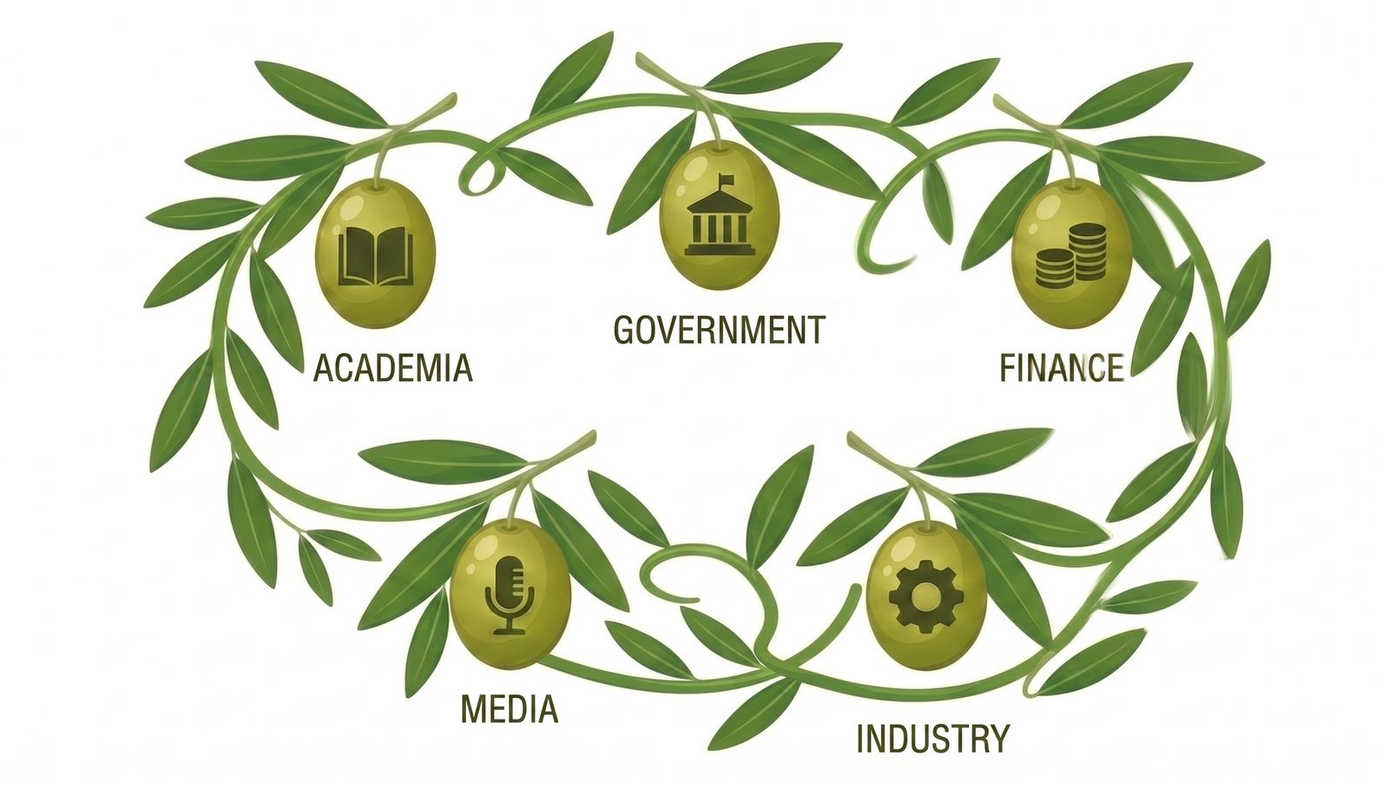
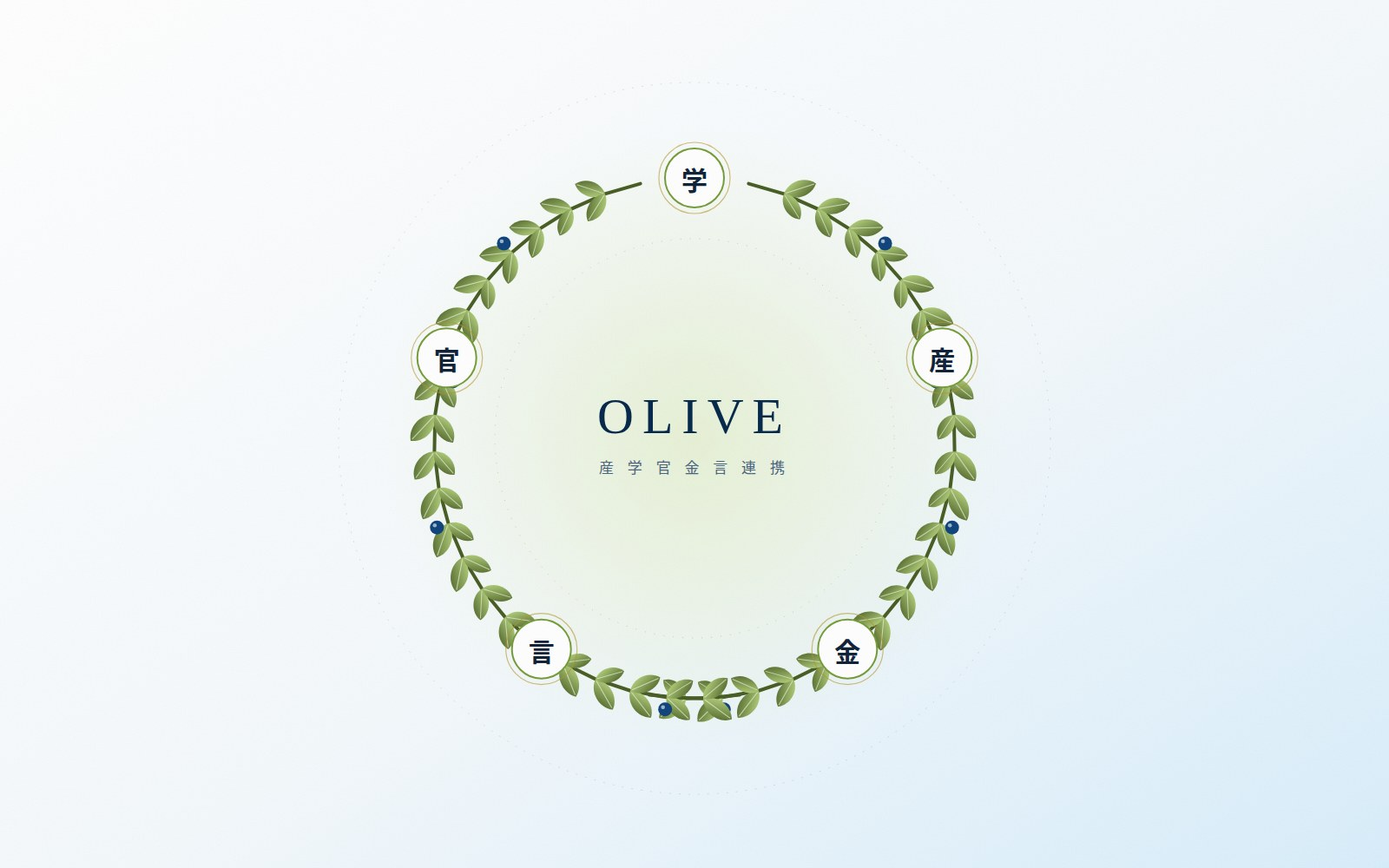
Add files via upload

diff --git a/index.html b/index.html
@@ -4,7 +4,7 @@
 <meta charset="UTF-8">
 <meta name="viewport" content="width=device-width, initial-scale=1">
 <title>ホーム｜OLIVE おかやま地域未来共創プラットフォーム</title>
-<meta name="description" content="岡山の高校・高専・大学・企業・行政・金融・メディアが手を組み、人材育成の構想を実行に移す「おかやま地域未来共創プラットフォーム（OLIVE）」の公式サイト。">
+<meta name="description" content="岡山の高校・大学・企業・行政・金融・メディアが手を組み、人材育成の構想を実行に移す「おかやま地域未来共創プラットフォーム（OLIVE）」の公式サイト。">
 
 <link rel="preconnect" href="https://fonts.googleapis.com">
 <link rel="preconnect" href="https://fonts.gstatic.com" crossorigin>
@@ -77,10 +77,10 @@
     <div class="leaf-fall" aria-hidden="true"><i></i><i></i><i></i><i></i><i></i></div>
     <div class="wrap hero-grid">
       <div class="page-enter">
-        <p class="eyebrow">Okayama Local Innovation and Visionary Ecosystem</p>
+        <p class="eyebrow">Okayama Leading Initiative for Value creation and Education</p>
         <h1 class="hero-title"><span class="ln"><span>未来を待つのではなく、</span></span><span class="ln"><span><em>私たちが、創る。</em></span></span></h1>
-        <p class="hero-lede">岡山の高校・高専・大学・企業・行政・金融・メディアが、ひとつのテーブルにつく。そして決めたことを、実際に動かす。OLIVEは、岡山の人材育成を「話し合い」で終わらせないための、産学官金言のプラットフォームです。</p>
-        <p class="hero-formal">文部科学省「地域構想推進プラットフォーム」構築等推進事業　採択</p>
+        <p class="hero-lede">岡山の高校・大学・企業・行政・金融・メディアが、ひとつのテーブルにつく。そして決めたことを、実際に動かす。OLIVEは、岡山の人材育成を「話し合い」で終わらせないための、産学官金言のプラットフォームです。</p>
+        <p class="hero-formal">文部科学省「地域構想推進プラットフォーム」構築等推進事業　採択取組</p>
         <div class="hero-cta">
           <a class="btn btn-primary" href="stakeholders.html">あなたにとってのOLIVE</a>
           <a class="btn btn-ghost" href="about.html">OLIVEとは</a>
@@ -88,26 +88,60 @@
       </div>
       <div class="hero-tilt" id="heroTilt">
         <div class="hero-art float-slow" aria-hidden="true"><svg viewBox="0 0 420 420" width="100%" height="100%">
-  <circle cx="210" cy="210" r="190" fill="none" stroke="var(--line-strong)" stroke-width="1"/>
-  <circle cx="210" cy="210" r="140" fill="none" stroke="var(--line)" stroke-width="1"/>
-  <g stroke="var(--olive-deep)" stroke-width="2" fill="none" stroke-linecap="round">
-    <path d="M210 340C210 340 130 300 130 210C130 140 165 100 210 70C255 100 290 140 290 210C290 300 210 340 210 340Z"/>
-    <path d="M210 340V90"/>
+  <defs>
+    <radialGradient id="hgGlow" cx="50%" cy="50%" r="50%">
+      <stop offset="0%" stop-color="var(--olive-pale)" stop-opacity=".95"/>
+      <stop offset="70%" stop-color="var(--olive-pale)" stop-opacity=".25"/>
+      <stop offset="100%" stop-color="var(--olive-pale)" stop-opacity="0"/>
+    </radialGradient>
+    <linearGradient id="hgLeaf" x1="0" y1="0" x2="1" y2="1">
+      <stop offset="0%" stop-color="var(--olive-light)"/>
+      <stop offset="100%" stop-color="var(--olive-deep)"/>
+    </linearGradient>
+    <g id="hl">
+      <path d="M0 0 C 8 -11 26 -11 34 0 C 26 11 8 11 0 0 Z" fill="url(#hgLeaf)"/>
+      <path d="M2 0 L32 0" stroke="var(--olive-pale)" stroke-width=".9" opacity=".8"/>
+    </g>
+  </defs>
+  <circle cx="210" cy="210" r="150" fill="url(#hgGlow)"/>
+  <g class="orbit-spin"><circle cx="210" cy="210" r="198" fill="none" stroke="var(--line-strong)" stroke-width="1" stroke-dasharray="1.5 7"/></g>
+  <g class="orbit-spin-r"><circle cx="210" cy="210" r="176" fill="none" stroke="var(--line)" stroke-width="1"/>
+    <circle cx="210" cy="210" r="138" fill="none" stroke="var(--gold)" stroke-width=".8" stroke-dasharray="1 9" opacity=".65"/></g>
+  <g stroke="var(--line)" stroke-width="1" stroke-dasharray="2 5" opacity=".9">
+    <line x1="210" y1="210" x2="210.0" y2="34.0"/>
+    <line x1="210" y1="210" x2="377.4" y2="155.6"/>
+    <line x1="210" y1="210" x2="313.5" y2="352.4"/>
+    <line x1="210" y1="210" x2="106.5" y2="352.4"/>
+    <line x1="210" y1="210" x2="42.6" y2="155.6"/>
+    </g>
+  <g class="hub-pulse"><circle cx="210" cy="210" r="70" fill="none" stroke="var(--olive)" stroke-width="1.2"/></g>
+  <g>
+    <path d="M210 336 C 214 292 206 250 212 205 C 216 170 208 135 212 96" fill="none" stroke="var(--olive-deep)" stroke-width="2.4" stroke-linecap="round"/>
+    <g class="float-fast">
+      <use href="#hl" transform="translate(208 302) rotate(-148) scale(1.25)"/>
+      <use href="#hl" transform="translate(214 280) rotate(-32) scale(1.3)"/>
+      <use href="#hl" transform="translate(206 254) rotate(-148) scale(1.35)"/>
+      <use href="#hl" transform="translate(216 229) rotate(-32) scale(1.35)"/>
+      <use href="#hl" transform="translate(207 203) rotate(-148) scale(1.3)"/>
+      <use href="#hl" transform="translate(216 178) rotate(-32) scale(1.28)"/>
+      <use href="#hl" transform="translate(208 153) rotate(-148) scale(1.18)"/>
+      <use href="#hl" transform="translate(215 128) rotate(-32) scale(1.1)"/>
+      <use href="#hl" transform="translate(211 103) rotate(-90) scale(0.85)"/>
+      </g>
+    <g>
+      <circle cx="224" cy="263" r="6.2" fill="var(--navy)"/><circle cx="222.0" cy="261.0" r="1.7" fill="#fff" opacity=".55"/>
+      <circle cx="197" cy="214" r="6.6" fill="var(--navy)"/><circle cx="194.9" cy="211.9" r="1.8" fill="#fff" opacity=".55"/>
+      <circle cx="224" cy="166" r="5.6" fill="var(--navy)"/><circle cx="222.2" cy="164.2" r="1.6" fill="#fff" opacity=".55"/>
+      </g>
   </g>
-  <g stroke="var(--olive)" stroke-width="1.6" fill="none" stroke-linecap="round">
-    <path d="M210 280C210 280 165 270 155 225"/><path d="M210 250C210 250 250 242 258 205"/>
-    <path d="M210 220C210 220 172 212 164 175"/><path d="M210 190C210 190 245 183 251 152"/>
-    <path d="M210 160C210 160 178 152 172 125"/>
-  </g>
-  <g fill="var(--olive-deep)" class="float-fast">
-    <ellipse cx="155" cy="225" rx="7" ry="10" transform="rotate(-30 155 225)"/>
-    <ellipse cx="258" cy="205" rx="7" ry="10" transform="rotate(25 258 205)"/>
-    <ellipse cx="164" cy="175" rx="6" ry="9" transform="rotate(-25 164 175)"/>
-    <ellipse cx="251" cy="152" rx="6" ry="9" transform="rotate(30 251 152)"/>
-    <ellipse cx="172" cy="125" rx="5" ry="8" transform="rotate(-20 172 125)"/>
-  </g>
-  <circle cx="210" cy="70" r="6" fill="var(--navy)"/>
-  <text x="210" y="400" text-anchor="middle" font-family="var(--serif)" font-size="13" fill="var(--ink-soft)" letter-spacing="2">Ō L I V E — 根を張り、実をむすぶ。</text>
+  <g>
+    <g class="hub-node"><circle cx="210.0" cy="34.0" r="19" fill="var(--card)" stroke="var(--olive)" stroke-width="1.3"/><circle cx="210.0" cy="34.0" r="23.5" fill="none" stroke="var(--gold)" stroke-width=".8" opacity=".55"/><text x="210.0" y="34.5" text-anchor="middle" dominant-baseline="central" font-family="var(--serif)" font-size="15" font-weight="700" fill="var(--ink)">学</text></g>
+    <g class="hub-node"><circle cx="377.4" cy="155.6" r="19" fill="var(--card)" stroke="var(--olive)" stroke-width="1.3"/><circle cx="377.4" cy="155.6" r="23.5" fill="none" stroke="var(--gold)" stroke-width=".8" opacity=".55"/><text x="377.4" y="156.1" text-anchor="middle" dominant-baseline="central" font-family="var(--serif)" font-size="15" font-weight="700" fill="var(--ink)">産</text></g>
+    <g class="hub-node"><circle cx="313.5" cy="352.4" r="19" fill="var(--card)" stroke="var(--olive)" stroke-width="1.3"/><circle cx="313.5" cy="352.4" r="23.5" fill="none" stroke="var(--gold)" stroke-width=".8" opacity=".55"/><text x="313.5" y="352.9" text-anchor="middle" dominant-baseline="central" font-family="var(--serif)" font-size="15" font-weight="700" fill="var(--ink)">金</text></g>
+    <g class="hub-node"><circle cx="106.5" cy="352.4" r="19" fill="var(--card)" stroke="var(--olive)" stroke-width="1.3"/><circle cx="106.5" cy="352.4" r="23.5" fill="none" stroke="var(--gold)" stroke-width=".8" opacity=".55"/><text x="106.5" y="352.9" text-anchor="middle" dominant-baseline="central" font-family="var(--serif)" font-size="15" font-weight="700" fill="var(--ink)">言</text></g>
+    <g class="hub-node"><circle cx="42.6" cy="155.6" r="19" fill="var(--card)" stroke="var(--olive)" stroke-width="1.3"/><circle cx="42.6" cy="155.6" r="23.5" fill="none" stroke="var(--gold)" stroke-width=".8" opacity=".55"/><text x="42.6" y="156.1" text-anchor="middle" dominant-baseline="central" font-family="var(--serif)" font-size="15" font-weight="700" fill="var(--ink)">官</text></g>
+    </g>
+  <text x="210" y="404" text-anchor="middle" font-family="var(--serif)" font-size="13" fill="var(--ink-soft)" letter-spacing="2">Ō L I V E — 根を張り、実をむすぶ。</text>
 </svg></div>
       </div>
     </div>

diff --git a/style.css b/style.css
@@ -999,3 +999,126 @@ html:not(.no-js) .page-head-band .ph-inner{
   }
   html .reveal{ filter:none !important; }
 }
+
+
+/* ============================================================
+   REFINEMENT v3 ― 洗練（配色・書体・構図・写真の質感）
+   ============================================================ */
+
+/* ---- R1. 配色：資料のトーンに寄せた深いネイビーと、金の差し色 ---- */
+:root{
+  --navy:#12467e; --navy-soft:#3f7fb8;
+  --gold:#b8952f; --gold-soft:#dcc785; --gold-pale:#f3ecd4;
+  --olive:#789c3a; --olive-deep:#4a5f27;
+}
+@media (prefers-color-scheme: dark){ :root:not([data-theme="light"]){
+  --gold:#d9bd62; --gold-soft:#b89b45; --gold-pale:#2a2617;
+} }
+:root[data-theme="dark"]{ --gold:#d9bd62; --gold-soft:#b89b45; --gold-pale:#2a2617; }
+
+/* ---- R2. 書体：大きく、軽く、余白をもって ---- */
+h1,h2{ font-weight:600; letter-spacing:.01em; }
+.hero h1{ font-size:clamp(2.2rem,4.4vw,3.3rem); line-height:1.3; margin-top:22px; }
+.page-head-band h1{ font-size:clamp(1.9rem,3.8vw,2.8rem); line-height:1.32; margin-top:16px; }
+.eco-grid{ grid-template-columns:repeat(auto-fit, minmax(188px,1fr)); }
+.section-head h2{ font-size:clamp(1.65rem,3.25vw,2.35rem); line-height:1.38; margin-top:14px; }
+.quote-band h2{ font-weight:600; font-size:clamp(1.9rem,4.2vw,3.15rem); line-height:1.32; }
+.hero-lede, .ph-lede{ font-size:1.06rem; line-height:2; }
+.section-head p{ font-size:1rem; line-height:2; }
+.section-head{ margin-bottom:clamp(34px,4.8vw,56px); }
+section{ padding:clamp(64px,8.5vw,112px) 0; }
+
+/* 小見出しの「葉」は金に。文字は少し広めのトラッキングで */
+.eyebrow{ color:var(--olive-deep); letter-spacing:.24em; font-size:.72rem; }
+.eyebrow::before{ background:var(--gold); width:11px; height:11px; }
+.quote-band .eyebrow{ color:var(--gold-soft); }
+.quote-band .eyebrow::before{ background:var(--gold-soft); }
+.contact-panel .eyebrow, .contact-panel .eyebrow::before{ color:var(--gold-soft); background:var(--gold-soft); }
+.contact-panel .eyebrow{ background:none; }
+
+/* ---- R3. ヘッダー：静かな存在感 ---- */
+.nav-row{ padding-top:18px; padding-bottom:18px; }
+nav.links{ gap:26px; font-size:.86rem; }
+nav.links a::after{ background:var(--gold); box-shadow:none; }
+nav.links a:hover, nav.links a.active{ color:var(--ink); }
+.brand-text{ letter-spacing:.06em; }
+.brand:hover .brand-text{ background-image:linear-gradient(var(--gold), var(--gold)); }
+
+/* ---- R4. ヒーロー：画面いっぱいの没入 ---- */
+.hero{
+  display:flex; flex-direction:column; justify-content:center;
+  min-height:clamp(600px, 88vh, 940px);
+  padding-top:clamp(40px,6vw,72px); padding-bottom:clamp(80px,9vw,110px);
+}
+.hero-glow{ background:radial-gradient(640px circle at var(--mx,60%) var(--my,20%), color-mix(in srgb, var(--olive) 22%, transparent), transparent 62%); }
+.hero-formal{ border-left-color:var(--gold); color:var(--ink-soft); }
+.hero-cta{ margin-top:34px; gap:14px; }
+.hero-art{ max-width:560px; }
+.scroll-cue{ color:var(--ink-soft); letter-spacing:.3em; }
+.scroll-cue i{ background:linear-gradient(var(--gold), transparent); }
+.scroll-cue i::after{ background:var(--gold); }
+
+/* ヒーローの新イラスト：軌道リングの回転と節点の呼吸 */
+.orbit-spin{ transform-box:fill-box; transform-origin:center; animation:orbitSpin 110s linear infinite; }
+.orbit-spin-r{ transform-box:fill-box; transform-origin:center; animation:orbitSpin 160s linear infinite reverse; }
+@keyframes orbitSpin{ to{ transform:rotate(360deg); } }
+.hub-node{ transform-box:fill-box; transform-origin:center; animation:nodeBreath 6.5s ease-in-out infinite; }
+.hub-node:nth-of-type(2){ animation-delay:-1.3s; } .hub-node:nth-of-type(3){ animation-delay:-2.6s; }
+.hub-node:nth-of-type(4){ animation-delay:-3.9s; } .hub-node:nth-of-type(5){ animation-delay:-5.2s; }
+@keyframes nodeBreath{ 0%,100%{ transform:scale(1); } 50%{ transform:scale(1.07); } }
+.hub-pulse{ transform-box:fill-box; transform-origin:center; animation:hubPulse 4.8s ease-out infinite; }
+@keyframes hubPulse{ 0%{ transform:scale(.55); opacity:.55; } 100%{ transform:scale(1.9); opacity:0; } }
+@media (prefers-reduced-motion: reduce){ .orbit-spin, .orbit-spin-r, .hub-node, .hub-pulse{ animation:none; } .hub-pulse{ opacity:0; } }
+
+/* ---- R5. 写真：統一した色調で「ひとつのサイト」の空気に ---- */
+.photo-band::before, .photo-split .ps-img::before{
+  content:""; position:absolute; inset:0; z-index:1; pointer-events:none;
+  background:linear-gradient(160deg, color-mix(in srgb, var(--sea-deep) 26%, transparent), transparent 45%, color-mix(in srgb, var(--olive-deep) 14%, transparent));
+  mix-blend-mode:multiply;
+}
+.photo-split .ps-img{ position:relative; }
+.photo-band img, .photo-split .ps-img img, .photo-plain img{ filter:saturate(.86) contrast(1.05) brightness(1.02); }
+.photo-band figcaption{ z-index:2; padding:64px 30px 22px; background:linear-gradient(transparent, color-mix(in srgb, var(--sea-deep) 88%, transparent)); font-family:var(--serif); font-weight:600; font-size:.95rem; letter-spacing:.02em; }
+.photo-band figcaption .cap-note{ font-family:var(--sans); font-weight:400; }
+.photo-plain figcaption{ font-family:var(--serif); letter-spacing:.04em; }
+
+/* ---- R6. マニフェスト帯：深いネイビーに金の気配 ---- */
+.quote-band{ background:linear-gradient(135deg, var(--sea-deep) 0%, var(--navy) 70%, #1b5a9a 100%); padding:clamp(72px,9vw,120px) clamp(20px,4vw,56px); }
+.quote-band .orb{ background:var(--gold-soft); opacity:.09; }
+.quote-band .sub{ font-family:var(--serif); font-size:1.02rem; letter-spacing:.04em; margin-top:22px; }
+
+/* ---- R7. 連絡先パネル ---- */
+.contact-panel{ background:linear-gradient(140deg, var(--sea-deep), #0d3b66 100%); }
+.contact-facts dt{ color:var(--gold-soft); opacity:.9; }
+
+/* ---- R8. フッター：締めの帯 ---- */
+footer{
+  background:var(--sea-deep); color:#c9d8e6; border-top:none; margin-top:clamp(24px,4vw,48px);
+  padding:clamp(44px,6vw,64px) clamp(20px,4vw,56px) clamp(36px,5vw,48px);
+  position:relative;
+}
+footer::before{ content:""; position:absolute; left:0; right:0; top:0; height:2px; background:linear-gradient(90deg, transparent, var(--gold) 30%, var(--olive) 70%, transparent); opacity:.8; }
+footer .fnav a{ color:#dbe6f0; }
+footer .fnav a:hover{ color:var(--gold-soft); }
+footer .f-note{ opacity:.6; }
+@media (prefers-color-scheme: dark){ :root:not([data-theme="light"]) footer{ background:#061523; } }
+:root[data-theme="dark"] footer{ background:#061523; }
+.pager{ padding-top:clamp(18px,2.5vw,28px); padding-bottom:clamp(20px,3vw,32px); }
+
+/* ---- R9. 細部：数字・引用・タブ・区切り ---- */
+.stat-num, .qs .val{ font-weight:700; }
+.stat-cell:nth-child(2) .stat-num{ color:var(--gold); }
+.article-body blockquote{ border-left-color:var(--gold); }
+.benefit .bn, .init-num{ -webkit-text-stroke-color:var(--gold); color:var(--gold-pale); }
+.init:hover .init-num{ -webkit-text-stroke:1.5px var(--navy); }
+section:not(:last-of-type)::after{ background:linear-gradient(90deg, transparent, color-mix(in srgb, var(--gold) 45%, var(--line-strong)) 30%, var(--line-strong) 70%, transparent); }
+.marquee{ background:color-mix(in srgb, var(--card) 70%, transparent); backdrop-filter:blur(6px); }
+.marquee-track span{ font-size:.82rem; letter-spacing:.04em; }
+.marquee-track span::after{ color:var(--gold); }
+.page-head-band{ padding-top:clamp(56px,7.5vw,96px); padding-bottom:clamp(40px,5vw,60px); }
+.ph-deco{ opacity:.28; }
+
+/* ---- R10. カードのラベル色を金／ネイビーで整理 ---- */
+.step3 .lbl, .gate .go, .body-card .k, .qs .yr, .phase-card .pn{ letter-spacing:.16em; }
+.gate .go{ color:var(--olive-deep); }
+.step3.s-olive .lbl{ color:var(--gold-soft); }

diff --git a/initiatives.html b/initiatives.html
@@ -124,11 +124,11 @@
         </div>
         <div class="init reveal">
           <div class="init-num">02</div>
-          <div><h3>高度DX・GX・AX人材とアントレプレナーの輩出</h3><p>探究型プログラムでアントレプレナーシップ教育を高度化。OI-Start内にAI利活用・ロボティクス・フードテック・サイバーセキュリティ・看護保育（AEW）の新設WGを立ち上げ、実企業の課題を題材にしたPBLを、正課外→単位化→正課化→連携開設科目の4段階で制度化します。</p><div class="sub"><span>OI-Start 新設5WG</span><span>真庭サテライトGX-PBL</span><span>AKATSUKIプロジェクト</span></div></div>
+          <div><h3>高度DX・GX・AX人材とアントレプレナーの輩出</h3><p>探究型プログラムでアントレプレナーシップ教育を高度化。OI-Start内にAI利活用・ロボティクス・フードテック（GX）・サイバーセキュリティ・看護保育（AEW）の新設WGを立ち上げ、実企業の課題を題材にしたPBLを、正課外→単位化→正課化→連携開設科目の4段階で制度化します。</p><div class="sub"><span>OI-Start 新設5WG</span><span>真庭サテライトGX-PBL</span><span>AKATSUKIプロジェクト</span></div></div>
         </div>
         <div class="init reveal">
           <div class="init-num">03</div>
-          <div><h3>人材需給ギャップの可視化とリスキリング</h3><p>岡山大学で人材需給ギャップダッシュボードを構築中。「ハレリカ」と連携し、AI駆動開発・看護DX・AX・フードテック・スマートファクトリー・データサイエンス等のリスキリング科目を展開します。</p><div class="sub"><span>ダッシュボードv0.6稼働中</span><span>公表54職種を収録</span><span>階層別プログラム</span></div></div>
+          <div><h3>人材需給ギャップの可視化とリスキリング</h3><p>岡山大学で試作中の人材需給ギャップダッシュボードは、岡山労働局・e-Statの公表データを接続し稼働中。「ハレリカ」と連携し、AI駆動開発・看護DX・AX・フードテック・スマートファクトリー・データサイエンス等のリスキリング科目を展開します。</p><div class="sub"><span>ダッシュボードv0.6稼働中</span><span>公表54職種を収録</span><span>階層別プログラム</span></div></div>
         </div>
         <div class="init reveal">
           <div class="init-num">04</div>
@@ -145,7 +145,7 @@
         <div>
           <p class="eyebrow">学生と社会人が、同じ教室に</p>
           <h3>学び直しは、学生だけのものではない。</h3>
-          <p>2040年に不足するのは、AI・ロボットを使いこなす人材です。岡山県立大学「ハレリカ」等と連携した階層別リスキリングでは、経営層から現場層まで、そして学生と社会人が同じ課題に向き合います。人材需給ギャップダッシュボードが示す「いま足りない力」が、そのままカリキュラムになります。</p>
+          <p>2040年に不足するのは、AI・ロボットを使いこなす人材です。県立大学「ハレリカ」等と連携した階層別リスキリングでは、経営層から現場層まで、そして学生と社会人が同じ課題に向き合います。人材需給ギャップダッシュボードが示す「いま足りない力」が、そのままカリキュラムになります。</p>
           <p class="ps-note">※ 本画像は活動のイメージです。</p>
         </div>
       </div>

diff --git a/roadmap.html b/roadmap.html
@@ -128,23 +128,23 @@
           <div class="road-item reveal">
             <div class="yr">令和8年度 ― 2026</div><div class="ttl">体制構築と「体感」の創出</div>
             <ul>
-              <li>おかやま地域未来共創機構の設立・登記。4部会＋ユースボードを設置</li>
-              <li>N-E.X.T.拠点校への教員・学生メンター派遣を開始、OI-Start内にAI利活用・フードテックWGなどを新設</li>
-              <li>人材需給ギャップダッシュボードのプロトタイプ構築</li>
+              <li>おかやま地域未来共創機構の設立・登記。4部会＋ユースボードを設置し、大学等連携推進方針の起草に着手</li>
+              <li>N-E.X.T.拠点校への教員・学生メンター派遣を開始、OI-Start内にAI利活用・ロボティクスWGを新設</li>
+              <li>人材需給ギャップダッシュボードのプロトタイプ構築、研究協力会・OI-Startの統合設計に着手</li>
             </ul>
           </div>
           <div class="road-item reveal">
             <div class="yr">令和9年度 ― 2027</div><div class="ttl">本格展開と教育資源共有の拡大</div>
             <ul>
               <li>大学等連携推進法人の認定申請。連携開設科目の共同設置、単位互換の本格運用</li>
-              <li>AI利活用など実践的PBLの高度化・広域化</li>
+              <li>AI利活用PBLの本格展開、アントレクエスト等実践的PBLの高度化・広域化</li>
               <li>各大学・企業の実データを接続、階層別リスキリング講座を開講。有料法人会員のプレセールス開始</li>
             </ul>
           </div>
           <div class="road-item reveal">
             <div class="yr">令和10年度 ― 2028</div><div class="ttl">成果の波及と自走化の確立</div>
             <ul>
-              <li>認定法人としての本格運営。</li>
+              <li>認定法人としての本格運営。地域構想推進プラットフォームとしての届出を視野に体制を拡張</li>
               <li>輩出人材の目標達成と成果の横展開、大学横断プログラムとして常設化</li>
               <li>有料会員制度への完全移行。大規模成果展開シンポジウムを開催</li>
             </ul>

diff --git a/members.html b/members.html
@@ -101,7 +101,7 @@
       <div class="body-grid stagger">
         <div class="body-card"><div class="k">学 ― 大学・高専</div><h4>高等教育機関</h4><p>岡山大学、岡山県立大学、岡山理科大学、ノートルダム清心女子大学、岡山商科大学、中国学園大学、環太平洋大学、津山工業高等専門学校</p></div>
         <div class="body-card"><div class="k">高校</div><h4>改革先導拠点校</h4><p>N-E.X.T.ハイスクール改革先導拠点校（東岡山工業高校、操山高校）ほか、県内高校改革を牽引する教育現場</p></div>
-        <div class="body-card"><div class="k">官 ― 行政・自治体</div><h4>自治体</h4><p>岡山県、岡山市、倉敷市、真庭市</p></div>
+        <div class="body-card"><div class="k">官 ― 行政・自治体</div><h4>4つの自治体</h4><p>岡山県、岡山市、倉敷市、真庭市</p></div>
         <div class="body-card"><div class="k">産 ― 産業界</div><h4>経済団体</h4><p>一般社団法人岡山経済同友会、岡山県商工会議所連合会、岡山県商工会連合会、岡山県中小企業団体中央会 ほか</p></div>
         <div class="body-card"><div class="k">金 ― 金融機関</div><h4>地域金融機関</h4><p>一般社団法人岡山県銀行協会　ちゅうぎんフィナンシャルグループ ほか、地域金融機関</p></div>
         <div class="body-card"><div class="k">言 ― メディア</div><h4>報道・発信パートナー</h4><p>株式会社山陽新聞社、テレビせとうち、8bitNews、学生広報サークル</p></div>
@@ -123,7 +123,7 @@
         <p>産学官金言のトップが役員会に、同じ機関の実務者が運営委員会に入ります。決定が実行から切り離されない構造です。</p>
       </div>
       <div class="hub-illustration reveal" aria-hidden="true">
-<svg viewBox="0 0 600 380" width="100%" height="auto">
+<svg viewBox="0 0 600 380" width="100%">
   <g stroke="var(--line-strong)" stroke-width="1.6" class="hub-link">
     <line x1="300" y1="190" x2="300" y2="60"/><line x1="300" y1="190" x2="424" y2="115"/><line x1="300" y1="190" x2="424" y2="265"/>
     <line x1="300" y1="190" x2="300" y2="320"/><line x1="300" y1="190" x2="176" y2="265"/><line x1="300" y1="190" x2="176" y2="115"/>

diff --git a/convert.js b/convert.js
@@ -84,11 +84,16 @@
 
         /* 先頭の h1 を記事タイトルとして取り出す */
         var title = '';
+        var titleFallback = false;
         var firstH1 = tmp.querySelector('h1');
         if (firstH1) { title = firstH1.textContent.trim(); firstH1.parentNode.removeChild(firstH1); }
         if (!title) {
           var firstP = tmp.querySelector('p');
-          if (firstP && firstP.textContent.trim()) title = firstP.textContent.trim().slice(0, 60);
+          if (firstP && firstP.textContent.trim()) {
+            title = firstP.textContent.trim().slice(0, 60);
+            firstP.parentNode.removeChild(firstP); /* 本文側に重複して残さない */
+            titleFallback = true;
+          }
         }
         if (!title) title = file.name.replace(/\.docx$/i, '');
 
@@ -134,8 +139,14 @@
         refresh();
 
         var warn = (result.messages || []).filter(function (x) { return x.type === 'warning'; });
-        say('変換できました。内容を確認して「記事ファイルをダウンロード」を押してください。'
-            + (warn.length ? '（Wordの一部の書式は簡略化されました）' : ''), 'ok');
+        if (titleFallback) {
+          say('変換できました。⚠ タイトルの見出しスタイル（「表題」または「見出し1」）が見つからなかったため、'
+              + '最初の段落をそのままタイトルにしました。文が途中で切れて見える場合は、下の「タイトル」欄を修正するか、'
+              + 'Word側で見出しの段落に「表題」スタイルを設定してから読み込み直してください。', 'err');
+        } else {
+          say('変換できました。内容を確認して「記事ファイルをダウンロード」を押してください。'
+              + (warn.length ? '（Wordの一部の書式は簡略化されました）' : ''), 'ok');
+        }
         editor.scrollIntoView({ behavior: 'smooth', block: 'start' });
       }).catch(function (err) {
         say('変換に失敗しました：' + (err && err.message ? err.message : err), 'err');

diff --git a/convert.html b/convert.html
@@ -99,7 +99,7 @@
           <label>ラベル
             <input type="text" id="fTag" placeholder="お知らせ" list="tagList">
             <datalist id="tagList">
-              <option value="お知らせ"></option><option value="記者発表"></option><option value="採択"></option>
+              <option value="お知らせ"></option><option value="記者発表"></option>
               <option value="資料公開"></option><option value="イベント"></option><option value="募集"></option>
               <option value="報道"></option><option value="活動報告"></option>
             </datalist>

diff --git a/README.md b/README.md
@@ -34,7 +34,7 @@ HTMLファイルを触る必要はありません。
 | 項目 | 意味 | 例 |
 |---|---|---|
 | `date` | 表示される日付。書き方は自由 | `"2026.09.15"` `"2026.09"` `"準備中"` |
-| `tag` | 右端の小さなラベル | `"お知らせ"` `"記者発表"` `"採択"` `"資料公開"` `"イベント"` `"募集"` `"報道"` |
+| `tag` | 右端の小さなラベル。**省略可**（行ごと消すとラベルは表示されません） | `"お知らせ"` `"記者発表"` `"資料公開"` `"イベント"` `"募集"` `"報道"` |
 | `title` | 一覧に出る文章 | `"○○を開催しました。"` |
 | `url` | リンク先。**なければ `""` のまま** | `"https://www.sanyonews.jp/..."` |
 
@@ -67,6 +67,8 @@ https://<ユーザー名>.github.io/<リポジトリ名>/convert.html
 
 1. **Wordで記事を書く**
    - 1行目にタイトルを書き、**スタイルを「表題」または「見出し1」**にする
+   - **タイトルは1行（1段落）に、完結した文でまとめる。** プレスリリースによくある「見出しを2〜3行に分けて改行する」書き方はしない（太字を並べただけだと、変換ツールがタイトルとして認識できず、文の途中で切れたようなタイトルになります）
+   - サブタイトルやキャッチコピー（「〜○○へ〜」のような一文）はタイトルには含めず、本文の最初の段落として書く
    - 本文中の小見出しも**「見出し1」**を使う
    - 箇条書き・表・太字・画像はそのまま使えます
 2. ファイル名を **`2026-09-15-ユース会議.docx`** のように、**先頭に日付**を入れて保存
@@ -92,6 +94,8 @@ https://<ユーザー名>.github.io/<リポジトリ名>/convert.html
 | 貼り付けた画像 | 記事内の写真として表示 |
 
 ⚠ **画像はWordに貼り付けたものがそのまま記事ファイルに埋め込まれます。** 大きな写真を何枚も入れるとファイルが重くなるので、1記事あたり2〜3枚を目安にしてください。
+
+⚠ **記事の最後に「お問い合わせ先」（電話番号・メールアドレスなど）を書くときは、生の連絡先をそのまま書かず、「お問い合わせは[OLIVEお問い合わせページ](contact.html)まで」のようにリンクにすることをおすすめします。** 電話番号やメールを記事ごとに直接書いてしまうと、あとで連絡先や担当者が変わったときに、公開済みの記事を1本ずつ探して書き換える必要が出てきます。`contact.html`だけを直せば済むようにしておくと安全です。
 
 ⚠ 文字色・フォント・インデントなどの細かい書式は、**サイトのデザインに統一されます**（Wordの見た目そのままにはなりません）。これは意図的な仕様です。
 
@@ -170,7 +174,7 @@ https://<ユーザー名>.github.io/<リポジトリ名>/convert.html
 
 💡 画像は**横1600px程度・300KB以下**が目安です。大きすぎるとページが重くなります。
 
-⚠ 現在の写真はすべてAI生成のイメージ画像で、キャプションにその旨を記載しています。実際の活動写真に差し替えた際は、`※ 本画像は活動のイメージです。` の一文を削除してください。
+⚠ 人物が写っている4枚（`kodai-workshop.jpg` `roundtable.jpg` `fieldwork.jpg` `dx-class.jpg`）はAI生成のイメージ画像で、キャプションにその旨を記載しています。実際の活動写真に差し替えた際は、`※ 本画像は活動のイメージです。` の一文を削除してください。`univ-network.jpg` と `olive-wreath.jpg` はサイト用に描いたイラストです。
 
 ---
 
@@ -179,12 +183,13 @@ https://<ユーザー名>.github.io/<リポジトリ名>/convert.html
 - `style.css` … 色・文字サイズ・余白
 - `site.js` … 動き（アニメーション）
 
-色を変えたい場合は `style.css` の先頭にある変数を書き換えます。
+色を変えたい場合は `style.css` の**いちばん下のほう**にある「REFINEMENT v3」ブロックの変数を書き換えます（ここが最終的に適用される値です）。
 
 ```css
---navy:#0a5ba8;      /* 濃い青 */
---olive:#7fa33e;     /* オリーブ色 */
---olive-deep:#4f6329;/* 濃いオリーブ */
+--navy:#12467e;      /* 深いネイビー */
+--gold:#b8952f;      /* 金の差し色（小見出しの葉・区切り線など） */
+--olive:#789c3a;     /* オリーブ色 */
+--olive-deep:#4a5f27;/* 濃いオリーブ */
 ```
 
 ---
